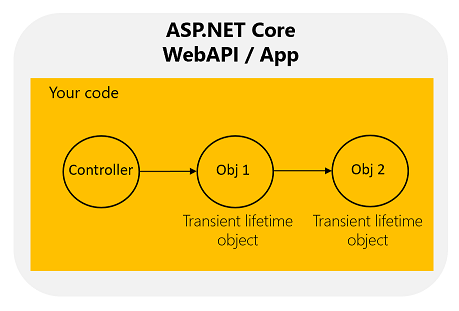
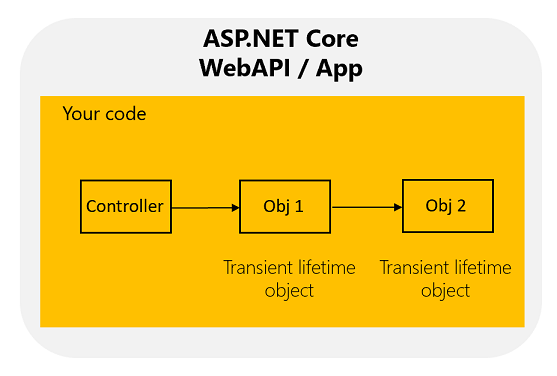
Updates on images, e2e architecture, etc.

Changed region(s): [[0.061, 0.0579, 0.9455, 0.8971], [0.7625, 0.5209, 0.854, 0.5788]]

diff --git a/Posts/001-Running-MLNET-Models-in-ASPNETCore/Running-MLNET-Models-in-ASPNETCore.md b/Posts/001-Running-MLNET-Models-in-ASPNETCore/Running-MLNET-Models-in-ASPNETCore.md
@@ -435,6 +435,11 @@ public class PredictorController : ControllerBase
 
 With that, we achieved our original goal of *'making super simple to predict with an ML.NET model while having good performance in scalable ASP.NET Core apps'* thanks to the explained optimizations.
 
+To recap, here's a high level end-to-end architecture diagram of the Web API using the MLModelEngine with the Object Pool of PredictionEngine objects.
+
+![alt text](images/WebAPI-MLModelEngine-Architecture.png "End-to-end-simplified-architecture")
+
+Feel free to provide your feedback if you implement this approach in your end-user applications.
 
 Happy coding! :)
 
